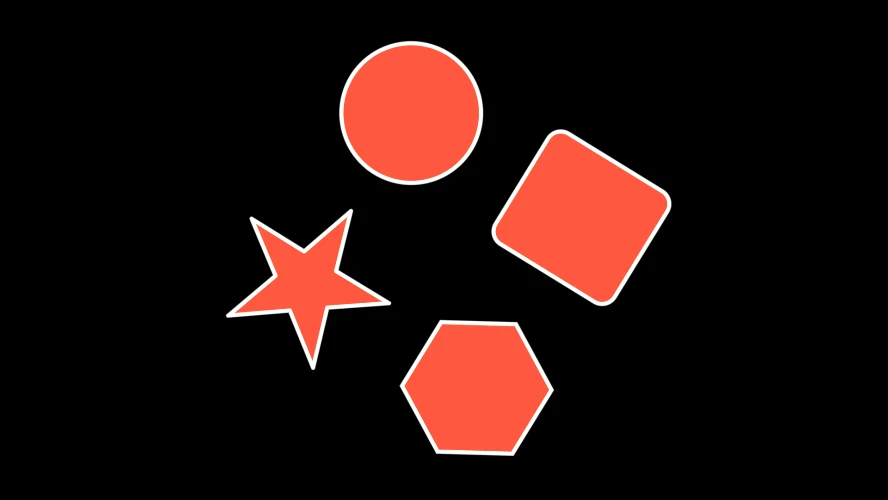
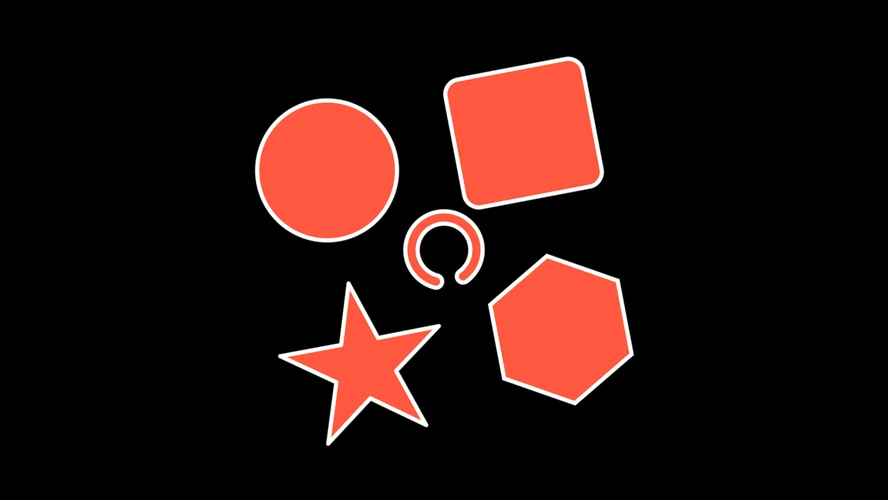
Four forms has an Arc filling and emptying in its middle
The Arc turns with the ring and joins the chain of Combines, so the seam melts
it in with the rest. Its sweep runs at 0.037 Hz, off any ratio to the melt, so
the two drift rather than repeating every half minute.

Changed region(s): [[0.2432, 0.06, 0.7601, 0.93]]

diff --git a/site/index.html b/site/index.html
@@ -285,7 +285,7 @@ let slowly = t * 0.2
       <figure class="still"><img loading="lazy" src="assets/shots/preview-whole-band.webp" width="888" height="500" alt="A many-pointed star in pinks, blues and reds."><figcaption><strong>Whole band</strong>A whole song from the engine's own modules, and one picture every part moves.</figcaption></figure>
       <figure class="still"><img loading="lazy" src="assets/shots/preview-acid.webp" width="888" height="500" alt="A dense swirl of green, pink and orange fragments."><figcaption><strong>Acid</strong>A 303 line through a resonant filter into two delays.</figcaption></figure>
       <figure class="still"><img loading="lazy" src="assets/shots/preview-marble.webp" width="888" height="500" alt="Gray and lilac veins like polished stone."><figcaption><strong>Marble</strong>A fractal bent by a fractal, which is stone.</figcaption></figure>
-      <figure class="still"><img loading="lazy" src="assets/shots/preview-four-forms.webp" width="888" height="500" alt="A circle, a rounded square, a hexagon and a star in coral on black."><figcaption><strong>Four forms</strong>Four shapes on a turning ring.</figcaption></figure>
+      <figure class="still"><img loading="lazy" src="assets/shots/preview-four-forms.webp" width="888" height="500" alt="A circle, a rounded square, a hexagon and a star in coral on black, round an almost closed ring."><figcaption><strong>Four forms</strong>Four shapes on a turning ring round a filling arc.</figcaption></figure>
       <figure class="still"><img loading="lazy" src="assets/shots/preview-ring-scan.webp" width="888" height="500" alt="Green concentric rings with a pale looping trace in the middle."><figcaption><strong>Ring scan</strong>A loop swept round a field at audio rate, so the picture is the waveform.</figcaption></figure>
       <figure class="still"><img loading="lazy" src="assets/shots/preview-in-key.webp" width="888" height="500" alt="Soft terraces of ochre, green and teal."><figcaption><strong>In key</strong>A cloud field snapped to a pentatonic scale: a melody, and the terraces it was cut into.</figcaption></figure>
       <figure class="still"><img loading="lazy" src="assets/shots/preview-euclid-kit.webp" width="888" height="500" alt="An orange ring on black with a green clock hand."><figcaption><strong>Euclid kit</strong>Four Euclidean rhythms, drawn as a clock hand and a ring the kick pushes.</figcaption></figure>

diff --git a/src/Flyback.Plugins.Picture/FourFormsPreset.cs b/src/Flyback.Plugins.Picture/FourFormsPreset.cs
@@ -3,8 +3,9 @@ using Flyback.Core.Graph;
 namespace Flyback.Plugins.Picture;
 
 /// <summary>
-/// All four forms on a ring, turning, with the seam between them opening and
-/// closing — so they are four shapes and then one, and then four again.
+/// All four forms on a ring, turning, round an Arc filling and emptying in the
+/// middle, with the seam between them opening and closing — so they are five
+/// shapes and then one, and then five again.
 /// </summary>
 /// <remarks>
 /// Built round the one gesture none of the modules can make alone. A Minimum would
@@ -12,8 +13,9 @@ namespace Flyback.Plugins.Picture;
 /// crease where two forms meet, and four shapes sharing corners look like four
 /// shapes overlapping. Swept from nothing to a quarter of the picture, the seam
 /// walks the whole way from four separate things to one — a topology changing on a
-/// knob. The hole left in the middle is the arrangement rather than an accident:
-/// the ring is set so the four close on their neighbours and not on the center.
+/// knob. The ring is set so the four close on their neighbors and not on the
+/// center, which leaves the middle to the Arc: small enough to stay its own shape
+/// until the seam is at its widest.
 /// <para>
 /// A ring rather than a row because a row would need the whole width of the frame.
 /// It rocks rather than spins: through a whole revolution the four would swap
@@ -34,6 +36,7 @@ internal static class FourFormsPreset
         // The two sweeps, and neither is heard or seen directly.
         var rock = b.Add("osc.sine", (1, 0.05f), (3, 1.2f));
         var melt = b.Add("osc.sine", (1, 0.09f), (3, 0.24f), (4, 0.26f));
+        var fill = b.Add("osc.sine", (1, 0.037f), (3, 0.5f), (4, 0.5f));
 
         // Here for the same reason the Supersaw preset has a Coordinates: 'x' and
         // 'y' are normalled to the pixel's own position, so reading a form
@@ -49,7 +52,13 @@ internal static class FourFormsPreset
             Place(b, -Ring, -Ring, StarModule.TypeId, (2, 0.34f), (3, 5f), (4, 0.45f)),
         };
 
-        b.Wire(rock, 0, turn, 2);
+        // At the center, so the Rotate turns it about itself: the opening rocks.
+        var dial = b.Add(ArcModule.TypeId, (2, 0.13f), (4, 0.05f));
+
+        b.Wire(rock, 0, turn, 2)
+         .Wire(turn, 0, dial, 0)
+         .Wire(turn, 1, dial, 1)
+         .Wire(fill, 0, dial, 3);
 
         foreach (var (move, shape) in forms)
         {
@@ -60,24 +69,25 @@ internal static class FourFormsPreset
         }
 
         b.Group("Sweeps", rock, melt, turn);
+        b.Group("Arc", fill, dial);
 
         string[] formNames = ["Circle", "Box", "Polygon", "Star"];
 
         for (var i = 0; i < forms.Length; i++)
             b.Group(formNames[i], forms[i].Move, forms[i].Shape);
 
-        // Chained, because a Combine takes two: three of them for four forms, and
+        // Chained, because a Combine takes two: four of them for five forms, and
         // the field coming out of one is a distance like the ones going in, which
         // is the whole reason they chain at all.
         var merged = forms[0].Shape;
         var combines = new List<NodeInstance>();
 
-        for (var i = 1; i < forms.Length; i++)
+        foreach (var next in forms.Skip(1).Select(form => form.Shape).Append(dial))
         {
             var combine = b.Add(CombineModule.TypeId);
 
             b.Wire(merged, 0, combine, 0)
-             .Wire(forms[i].Shape, 0, combine, 1)
+             .Wire(next, 0, combine, 1)
              .Wire(melt, 0, combine, 2);
 
             merged = combine;

diff --git a/tests/Flyback.Plugins.Tests/ShapesTests.cs b/tests/Flyback.Plugins.Tests/ShapesTests.cs
@@ -559,8 +559,8 @@ public class ShapesTests
     }
 
     /// <summary>
-    /// The showcase: all four forms, three Combines and one Fill, with the seam
-    /// and the pulse width on one wire between them.
+    /// The showcase: all five forms, four Combines and one Fill, with the seam
+    /// on one wire between them.
     /// </summary>
     [Fact]
     public void The_showcase_preset_holds_every_form_and_compiles_for_both_sinks()
@@ -570,10 +570,10 @@ public class ShapesTests
 
         var types = patch.Nodes.Select(n => n.TypeId).ToList();
 
-        foreach (var typeId in new[] { CircleType, BoxType, PolygonType, StarType, FillType })
+        foreach (var typeId in new[] { CircleType, BoxType, PolygonType, StarType, ArcType, FillType })
             types.ShouldContain(typeId);
 
-        types.Count(t => t == CombineType).ShouldBe(3);
+        types.Count(t => t == CombineType).ShouldBe(4);
 
         var video = patch.CompileForVideo(loaded.Modules);
         var audio = patch.CompileForAudio(loaded.Modules);
@@ -589,7 +589,7 @@ public class ShapesTests
 
     }
     /// <summary>
-    /// One sweep drives the three seams and the hue, which is the whole argument
+    /// One sweep drives the four seams and the hue, which is the whole argument
     /// for the preset: the topology changing and the color changing are the same
     /// number arriving in four places. A patch where they had a sweep each would
     /// look the same at any one moment and would drift apart over a minute, which
@@ -601,9 +601,9 @@ public class ShapesTests
         var loaded = ShippedPlugins.Loaded;
         var patch = loaded.Presets.Single(p => p.Name == FormsPresetName).Build(loaded.Modules);
 
-        // The only oscillators left are the two sweeps: the rock and the melt.
+        // The only oscillators are the three sweeps: the rock, the melt and the Arc's fill.
         var sweeps = patch.Nodes.Where(n => n.TypeId == "osc.sine").ToList();
-        sweeps.Count.ShouldBe(2);
+        sweeps.Count.ShouldBe(3);
 
         patch.Nodes.ShouldNotContain(
             n => n.TypeId == "osc.pulse",
@@ -612,8 +612,8 @@ public class ShapesTests
         var melt = sweeps.Single(sweep => patch.Connections.Count(w => w.SourceNode == sweep.Id) > 1);
         var driven = patch.Connections.Where(w => w.SourceNode == melt.Id).ToList();
 
-        // Three seams and the hue.
-        driven.Count(w => Type(patch, w.TargetNode) == CombineType).ShouldBe(3);
+        // Four seams and the hue.
+        driven.Count(w => Type(patch, w.TargetNode) == CombineType).ShouldBe(4);
         driven.Count(w => Type(patch, w.TargetNode) == "color.hsv").ShouldBe(1);
     }
 

diff --git a/src/Flyback.Plugins.Picture/PicturePlugin.cs b/src/Flyback.Plugins.Picture/PicturePlugin.cs
@@ -83,7 +83,7 @@ public sealed class PicturePlugin : IFlybackPlugin
             new PatchPreset(
                 FourFormsPreset.Name,
                 FourFormsPreset.Build,
-                "Four forms on a turning ring, with the seam between them opening and closing."),
+                "Four forms on a turning ring round a slowly filling arc, with the seam between them opening and closing."),
             new PatchPreset(
                 ShapesPreset.Name,
                 ShapesPreset.Build,

diff --git a/CHANGELOG.md b/CHANGELOG.md
@@ -4,7 +4,7 @@
 
 - `flyback-cli modules <module>` describes one module: its sockets with their defaults and ranges, where a pipe lands, and what it does.
 - Added Crush, a bitcrusher.
-- Added Arc, part of a ring opening from the top, filled like a dial by its `sweep`.
+- Added Arc, part of a ring opening from the top, filled like a dial by its `sweep`, and Four forms has one filling in its middle.
 - Added Chance: each note on a gate plays on its `gate` as often as a knob says, and on its `else` the rest of the time.
 - `flyback-cli compare` plays two patches side by side and says whether they are the same instrument, bit for bit, or where they part.
 - Added Clock In, which keeps a patch's beats, tempo and transport to the MIDI clock of a drum machine or sequencer.
